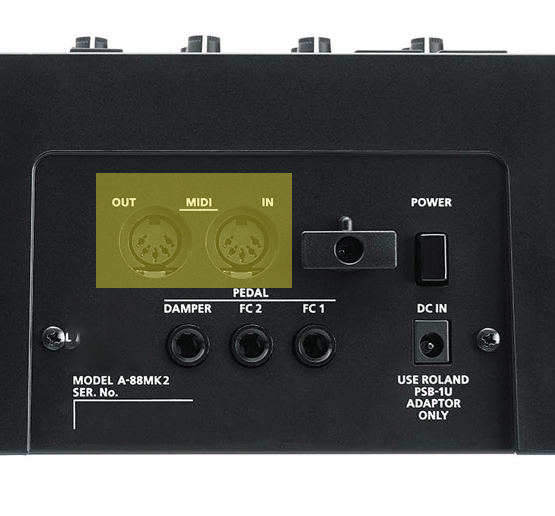
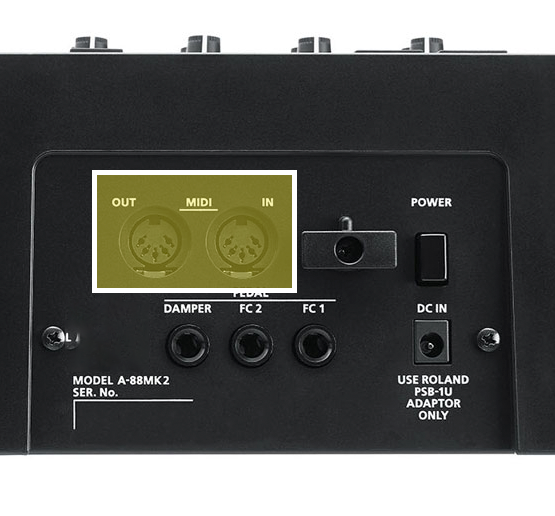
Dark Mode Update

Changed region(s): [[0.1532, 0.3101, 0.5514, 0.5891]]

diff --git a/README.md b/README.md
@@ -167,8 +167,7 @@ If it installed successfully, you should see that the Rock Band 3 icon has chang
 
 ![A screenshot of RPCS3's game library, showing an updated icon for Rock Band 3. It's now using the Rock Band 3 Deluxe icon.](images/inst/rpcs3rb3dxicon.png "RPCS3 Game List")
 
-**You can also rename the game in the list to "*Rock Band 3 Deluxe*" if you wish.** To do this, right-click on "Rock Band 3" and select "Rename In Game List".
-
+You can also rename the game in the list to "Rock Band 3 Deluxe" if you wish. To do this, right-click on "Rock Band 3" and select "Rename In Game List".
 
 <br/>
 
@@ -353,9 +352,9 @@ This may seem overwhelming because of the sheer number of options, but I have co
 
 | COLOR | MEANING |
 |---|---|
-| ![A red square with a dashed outline.](images/cust/bigred.png "Red Square") | **REQUIRED** |
-| ![A yellow square with a dotted outline.](images/cust/bigyellow.png "Yellow Square") | **Performance Tweaks** |
-| ![A blue square with a solid outline.](images/cust/bigblue.png "Blue Square") | **Optional** |
+| ![A green square with a dashed outline.](images/cust/biggreen.png "Green Square") | **REQUIRED** |
+| ![A blue square with a dotted outline.](images/cust/bigblue.png "Blue Square") | **Performance Tweaks** |
+| ![A tan square with a solid outline.](images/cust/bigtan.png "Tan Square") | **Recommended** |
 
 We'll go tab by tab, starting with:
 
@@ -364,20 +363,21 @@ We'll go tab by tab, starting with:
 ## CPU
 
 
-![A screenshot of Rock Band 3's CPU custom settings, showing SPU XFloat Accuracy, SPU Block Size, and Preferred SPU Threads highlighted in yellow with a dotted outline.](images/cust/cpu.png "CPU")
-* ![A yellow square with a dotted outline.](images/cust/smallyellow.png "Yellow Square") **Improved CPU performance, at the cost of bottlenecking on certain machines**: 
+![A screenshot of Rock Band 3's CPU custom settings, showing SPU XFloat Accuracy, SPU Block Size, and Preferred SPU Threads highlighted in blue with a dotted outline.](images/cust/cpu.png "CPU")
+* ![A blue square with a dotted outline.](images/cust/smallblue.png "Tan Square") **Improved CPU performance, at the cost of bottlenecking on certain machines**: 
 	* **Change "SPU Block Size" to "Mega"** - Ties smaller SPU compiled together, which requiring fewer cores/threads. Drastically speeds up game startup time on certain machines.
 	* **Change "Preferred SPU Threads" to "1", "2", "3", or "4"** - Can help prevent stutter caused by CPU overloads. **Start from 4 and lower it until it improves**.
+	* **Change "Thread Scheduler" to "RPCS3 Scheduler", or "RPCS3 Alternative Scheduler"** - **FOR CPUs WITH 12+ THREADS ONLY!** May help with thread distribution to prevent microstutters.
 	* **AS A LAST RESORT** **"SPU XFloat Accuracy" to "Relaxed"** - Changing this will gain a few frames but **will break practice mode and possibly other features!**
 
 <br/>
 
 ## GPU
-![A screenshot of Rock Band 3's GPU custom settings, highlighting Write Color Settings highlighted in red with a dashed outline, ZCULL Accuracy, Resolution Scale, Resolution Scale Threshold, Frame Limit, Shader Quality, and VSync highlighted in yellow with a dotted outline.](images/cust/gpu.png "GPU")
-* ![A light red square with a dashed outline.](images/cust/smallred.png "Light Red Square") REQUIRED: 
-	* **Enable "Write Color Buffers"** - This fixes 99% of the issues with characters having glitched textures.
-* ![A yellow square with a dotted outline.](images/cust/smallyellow.png "Yellow Square") Performance Tweaks: 
-	* **Enable "VSync"** - Reduces screen tearing and may lead to a more stable framerate. Slightly increases latency.
+![A screenshot of Rock Band 3's GPU custom settings, highlighting Write Color Settings highlighted in green with a dotted outline, ZCULL Accuracy, Resolution Scale, Resolution Scale Threshold, Frame Limit, Shader Quality, and VSync highlighted in blue with a dotted outline.](images/cust/gpu.png "GPU")
+* ![A green square with a dashed outline.](images/cust/smallgreen.png "Green Square") REQUIRED: 
+	* **Enable "Write Color Buffers"** - Characters will have severe graphical bugs without this.
+* ![A blue square with a dotted outline.](images/cust/smallblue.png "Tan Square") Performance Tweaks: 
+	* **Enable "VSync"** - Reduces screen tearing and may lead to a more stable framerate. Slightly increases input latency.
 	* **Change "Frame Limit"** 
 		* Set it to "Off" to use higher VBlank Frequencies (which may introduce jitter).
 		* Set it to 60 if you want a locked 60 FPS framerate (redundant with 60 Hz Vblank). 
@@ -385,25 +385,26 @@ We'll go tab by tab, starting with:
 		* It is suggested to use your graphics driver's settings or software like MSI Afterburner to cap your framerate instead.
 	* **Adjust "Shader Quality"** depending on your system.
 		* Low and Medium will drastically reduce quality at certain frame rates with little performance gains.
-		* High is the best option. Ultra looks similar to high.
+		* High is the best option. Ultra looks and performs similar to high.
 		* Auto will use default RPCS3 settings. This is the suggested setting. 
 	* **Adjust "Resolution Scale"** to preference and to what your computer can handle. Lower for performance gains at a drastic cost in quality. Increase for sharper graphics.
 	* **Adjust "Resolution Scale Threshold"** depending on "Resolution Scale" above. Set the number to whatever percent you increased your resolution (i.e., for 1920x1080, which is 150% of 1280x720, you'd calculate what 150% of 16 is, which would be 24.
-	* **Change "ZCULL Accuracy" to "Relaxed"** - For low end GPUs. Provides a slight performance improvement but may cause graphical anomalies.
-
+	* **Change "ZCULL Accuracy" to "Relaxed"** - For low end GPUs. Provides a slight performance improvement but may cause graphical anomalies
+.
 <br/>
 
 ## Audio
-![A screenshot of Rock Band 3's Audio custom settings, highlighting Enable Buffering in red with a dashed outline, Audio Buffer highlighted in yellow with a dotted outline, and Microphone Settings, Microphone Type (Standard), Mic1, Mic2, Mic3, and Mic4 highlighted in blue with a solid outline.](images/cust/audio.png "Audio")
-* ![A light red square with a dashed outline.](images/cust/smallred.png "Light Red Square") REQUIRED: 
-	* **Enable "Enable Buffering"** - Absolutely required by Rock Band 3. It should be enabled by default but if it's disabled, re-enable it.
-* ![A light yellow square with a dotted outline.](images/cust/smallyellow.png "Light Yellow Square") Tweak depending on audio hardware: 
+![A screenshot of Rock Band 3's Audio custom settings, highlighting Enable Buffering in green with a dashed outline, Audio Buffer highlighted in blue with a dotted outline, and Microphone Settings, Microphone Type (Standard), Mic1, Mic2, Mic3, and Mic4 highlighted in tan with a solid outline.](images/cust/audio.png "Audio")
+* ![A green square with a dashed outline.](images/cust/smallgreen.png "Green Square") REQUIRED: 
+	* **Enable "Enable Buffering"** - Absolutely required by Rock Band 3. It should be enabled by default but if it's disabled, re-enable it. You should set your global settings to default while you're at it because you should've done that to begin with.
+* ![A blue square with a dotted outline.](images/cust/smallblue.png "Blue Square") Tweak depending on audio hardware: 
 	* **Adjust "Audio Buffer Duration"** depending on system.
-		* Lower values give you less audio latency but higher CPU usage.
-		* Higher values give you more audio latency but lower CPU usage.
-		* Vocalists are affected the most by this, as a higher latency creates a distracting echo. Instrument players can use calibration to compensate either way.
+		* Lower values give you less audio latency but use more CPU.
+		* Higher values give you more audio latency but use less CPU.
+		* Vocalists are affected the most by this, as a higher latency creates a distracting echo. Instrument players can use calibration to compensate regardless of audio buffer setting.
 		* You can change this while the game is running, but it will require re-calibrating in Rock Band 3's system settings.
-* ![A blue square with a solid outline.](images/cust/smallblue.png "Blue Square") For Vocalists: 
+	* **Change "Audio Out" to "XAudio2"** - Has helped performance on lower end systems. Experiment with setting to make sure it actually helps. As this allegedly breaks audio buffering, **this should be used as a last resort.**
+* ![A tan square with a solid outline.](images/cust/smalltan.png "T Squarean") For Vocalists: 
 	* **Select an input device in "Mic1", "Mic2", and "Mic3"** for vocals. If not playing vocals, Mic1 will be used for voice chat.
 
 <br/>
@@ -418,7 +419,7 @@ We'll go tab by tab, starting with:
 
 
 **If your keyboard only has a MIDI output, you will need a MIDI to USB interface**.
-![A picture of a MIDI controller's back, showing a 5-DIN MIDI input and output, and multiple pedal inputs.](images/midi/midikeys.png "MIDI Keyboard")  
+![A picture of a MIDI controller's back, showing a 5-DIN MIDI input and output highlighted in yellow with a solid white outline, and multiple pedal inputs.](images/midi/midikeys.png "MIDI Keyboard")  
 
 **The same applies to Rock Band 3 Pro Guitars** as they only have MIDI outputs.
 ![A picture of a Rock Band 3 Fender Mustang Pro Guitar, showing a 5-DIN MIDI output.](images/midi/midiprotar.png "Mustang Pro Guitar MIDI Output")  
@@ -431,11 +432,15 @@ Here's an example of a MIDI to USB interface. Most will come with an LED indicat
 >![A picture of a Focusrite Scarlett's rear, showing a USB port, and 5-DIN MIDI input and output.](images/midi/midifs.png "Focusrite Scarlett MIDI in/out")  
 
 
-**If everything's connected**, let's go ahead and **focus on RPCS3's I/O tab.**  
-![A screenshot of Rock Band 3's I/O custom settings, showing Emulated MIDI Devices, device type, and device selection highlighted in blue with a solid outline.](images/cust/io.png "I/O")
-* ![A blue square with a solid outline.](images/cust/smallblue.png "Blue Square") For third party Keyboard and wired Pro Guitar players: 
+**If everything's connected**, let's go ahead and **focus on RPCS3's I/O tab.**
+**YOU MAY HAVE TO MAKE THE WINDOW WIDER TO READ THE OPTIONS!**
+![A screenshot of Rock Band 3's I/O custom settings, showing Emulated MIDI Devices, device type, and device selection highlighted in tan with a solid outline, and Pad Handler Mode highlighted in blue with a dotted outline.](images/cust/io.png "I/O")
+* ![A tan square with a solid outline.](images/cust/smalltan.png "Tan Square") For third party Keyboard and wired Pro Guitar players: 
 	* 🎹 **Keyboard Players: Leave your "Emulated MIDI type" on "Keyboard" and select your keyboard or MIDI interface in the drop-down menu next to it.**.
 	* 🎸 **Pro Guitar Players: Change your "Emulated MIDI type" from "Keyboard" to "Guitar (17 Frets)" if you have a Mustang Pro Guitar, or "Guitar (22 Frets)" if you have a Squier Pro Guitar, then select your MIDI to USB interface in the drop-down menu next to it**.
+
+* ![A blue square with a dotted outline.](images/cust/smallblue.png "Blue Square") Tweak depending on CPU: 
+	* **Change "Pad Handler Mode" to "Multi-threaded"** if you have a CPU **with more than 12 threads.**
   
  **If your instrument isn't detected in the drop-down menu, click on "Save custom configuration", close the Custom Configuration window, then right click on Rock Band 3 to reopen it. If that doesn't work, restart RPCS3.**  
   
@@ -445,11 +450,12 @@ As **keyboards don't have PS3 buttons, the first octave is** reserved **for mapp
 <br/>
 
 ## NETWORK
-![A screenshot of Rock Band 3's Network custom settings, highlighting Network Status (Connected) in red with a dashed outline IP/Hosts switches (rb3ps3live.hmxservices.com=45.33.48.123), PSN Status (RPCN), and Enable UPNP (not checked) highlighted in blue with a solid outline.](images/cust/network.png "Network")
-* ![A light red square with a dashed outline.](images/cust/smallred.png "Light Red Square") REQUIRED: 
+![A screenshot of Rock Band 3's Network custom settings, highlighting Network Status (Connected) in green with a dashed outline, IP/Hosts switches (rb3ps3live.hmxservices.com=45.33.48.123), PSN Status (RPCN), and Enable UPNP (not checked) highlighted in tan with a solid outline.](images/cust/network.png "Network")
+* ![A green square with a dashed outline.](images/cust/smallgreen.png "Green Square") REQUIRED: 
 	* **Change the Network Status to “Connected” as highlighted in the picture. If left on “Disconnected,” the game will temporarily freeze when browsing the song library.**
-* ![A blue square with a solid outline.](images/cust/smallblue.png "Blue Square") For online multiplayer: 
-	* Tick **"Enable UPNP"** or **forward port 9103 (UDP) in your firewall. Don't enable UPNP while port forwarding** as this can cause crashes.
+* ![A tan square with a solid outline.](images/cust/smalltan.png "Tan Square") For online multiplayer: 
+	* Tick **"Enable UPNP"** or **forward port 9103 (UDP) in your firewall.
+		* Don't enable UPNP while port forwarding** as this can cause crashes.
 	* As of writing this, there are two Rock Band 3 multiplayer servers to connect to. You can easily switch between them.
 		* **Join the** [[**Milohax Discord server**]](https://discord.gg/6rRUWXPYwb) and **go to** the **[\[#ashcentral-status\]](https://discord.com/channels/961352072140324924/1153056600030973992)** channel. **Copy the information for RPCS3**. This is the suggested server due to having more features and frequent updates.  
 		* Join the [[RBEnhanced Discord server]](https://discord.gg/6rRUWXPYwb) and go to the [[#gocentral-connecting]](https://discord.com/channels/953085263008129064/1076031372185042984) channel. Follow the instructions for RPCS3.  
@@ -458,13 +464,14 @@ As **keyboards don't have PS3 buttons, the first octave is** reserved **for mapp
 
 ## ADVANCED
 ![A screenshot of Rock Band 3's Advanced custom settings, showing "Exclusive Fullscreen Mode (Automatic (Default)), and Driver Wake-Up Delay (1µ) in green.](images/cust/advanced.png "Advanced")
-* ![A yellow square with a dotted outline.](images/cust/smallyellow.png "Yellow Square") Depending on your computer: 
-	* **Change "Driver Wake-up Delay" to "20µ"** if you experience crashing after a few songs. Increase it to "40µ" if the issue persists.
+* ![A green square with a dashed outline.](images/cust/smallgreen.png "Green Square") REQUIRED: 
+	* **Change "Driver Wake-up Delay" to "20µ"** to avoid crashing after a few songs. Increase it to "40µ" if the issue persists.
+* ![A blue square with a dotted outline.](images/cust/smallblue.png "Tan Square") Depending on your computer: 
 	* **Change "Exclusive Fullscreen Mode" to "Prefer borderless fullscreen"** to prevent potential crashes and audio desync when changing program focus constantly.
 	* **Adjust VBlank Frequency** if you want a higher internal framerate. This can make it easier to hit notes but may cause graphical instability and connection issues while online. **It's best left alone** and not recommended to go above 75 Hz if adjusting it for online play.
 	* **Enable "Silence All Logs"** - **Not suggested** but can help reduce drive usage on computers with slower drives. This is a non-issue for most people. **If you disable this, neither the RPCS3 team or the Milohax team will be able to help you with troubleshooting and crashes**.
-* ![A blue square with a solid outline.](images/cust/smallblue.png "Blue Square") For higher framerates: 
-	* **Enable "Debug Console Mode"** - With this option enabled and Rock Band 3 Deluxe installed, you can take advantage of higher memory access, leading to longer sessions with longer songs and increased stability. Most people should enable this.
+* ![A tan square with a solid outline.](images/cust/smalltan.png "Tan Square") For most people: 
+	* **Enable "Debug Console Mode"** - With Rock Band 3 Deluxe installed and this option enabled, you can take advantage of higher memory access, leading to longer sessions with longer songs and increased stability. If your computer is within the minimum (or higher) requirements, there's no reason you shouldn't enable this.
 	
 
 <br/>
@@ -472,7 +479,7 @@ As **keyboards don't have PS3 buttons, the first octave is** reserved **for mapp
 ## EMULATOR
 ![A screenshot of Rock Band 3's Emulator custom settings, showing "Show trophy popups", "Show PPU compilation hint", "Show Shader Compilation hint", "Start Games in fullscreen mode", "Use native user interface".](images/cust/emulator.png "Emulator")
 You can leave this as is if you want, but I would consider changing the following options:
-* ![A blue square with a solid outline.](images/cust/smallblue.png "Blue Square") Optional tweaks: 
+* ![A tan square with a solid outline.](images/cust/smalltan.png "Tan Square") Optional tweaks: 
 	* **“Show trophy popups”** - Mimics the way Trophy notifications appear on the PS3. I personally disable this as the game has its own pop-ups.
 	* **“Show PPU compilation hint”** - This creates a popup whenever RPCS3 is compiling units for the PPU. This only comes up once as "Recompiler (LLVM)" in the CPU tab does this when launching the game.
 	* **“Show shader compilation hint”** - This creates a popup whenever RPCS3 is compiling shaders. Whether you leave it on or not is up to you, but I should tell you what this means as it is important. When you run PS3 games, it has to compile shaders to “translate” the graphics from a PS3 format to a format your PC can work with. **The game will** appear to **stutter when this happens**. **This happens on ALL computer systems. When it finishes** compiling an effect, **it will usually never happen again**. **The best way to deal with this is** just **to** **play the game** as it will quickly go away. You can also use Rock Band 3 Deluxe's Autoplay modifier to let it go through a few songs in a party shuffle and let it compile a decent amount of shaders.
@@ -481,6 +488,12 @@ You can leave this as is if you want, but I would consider changing the followin
     
 
 **After all of that, remember to click "Apply" then "Save custom configuration"**
+
+If everything seems to be working, **I'd also strongly suggest changing RPCS3's log to only display fatal errors** as it gets flooded by excess messages otherwise.
+
+To do this, **right click in RPCS3's log at the bottom and click on "Fatal"**.
+
+![A screenshot of RPCS3's game library, showing an updated icon for Rock Band 3. It's now using the Rock Band 3 Deluxe icon.](images/cust/logging.png "RPCS3 Fatal Logging")
 
 That's the difficult part over with.
 
